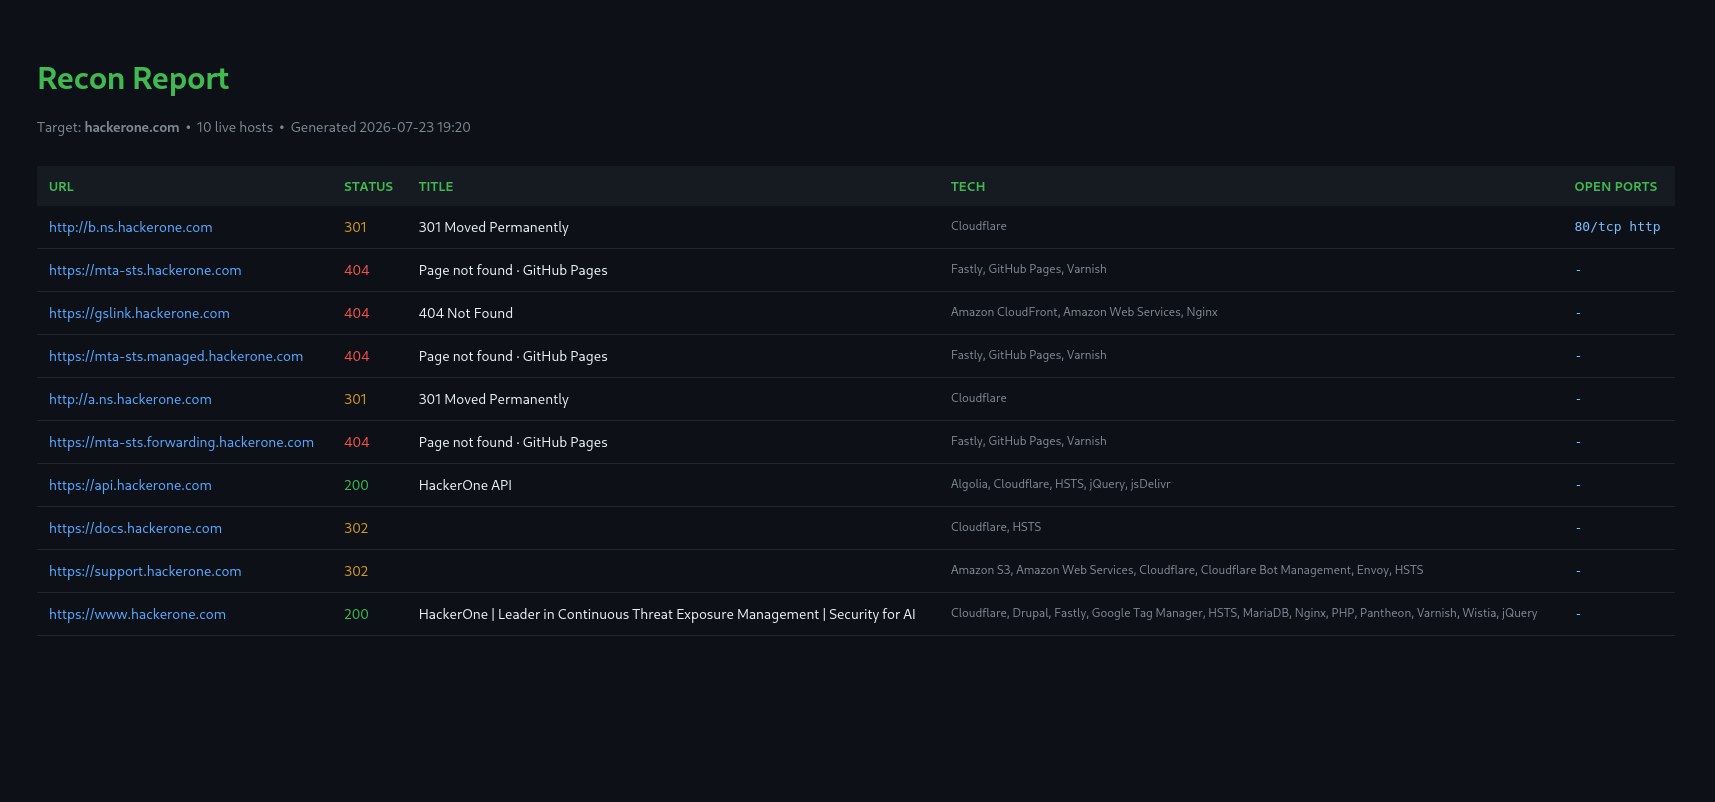
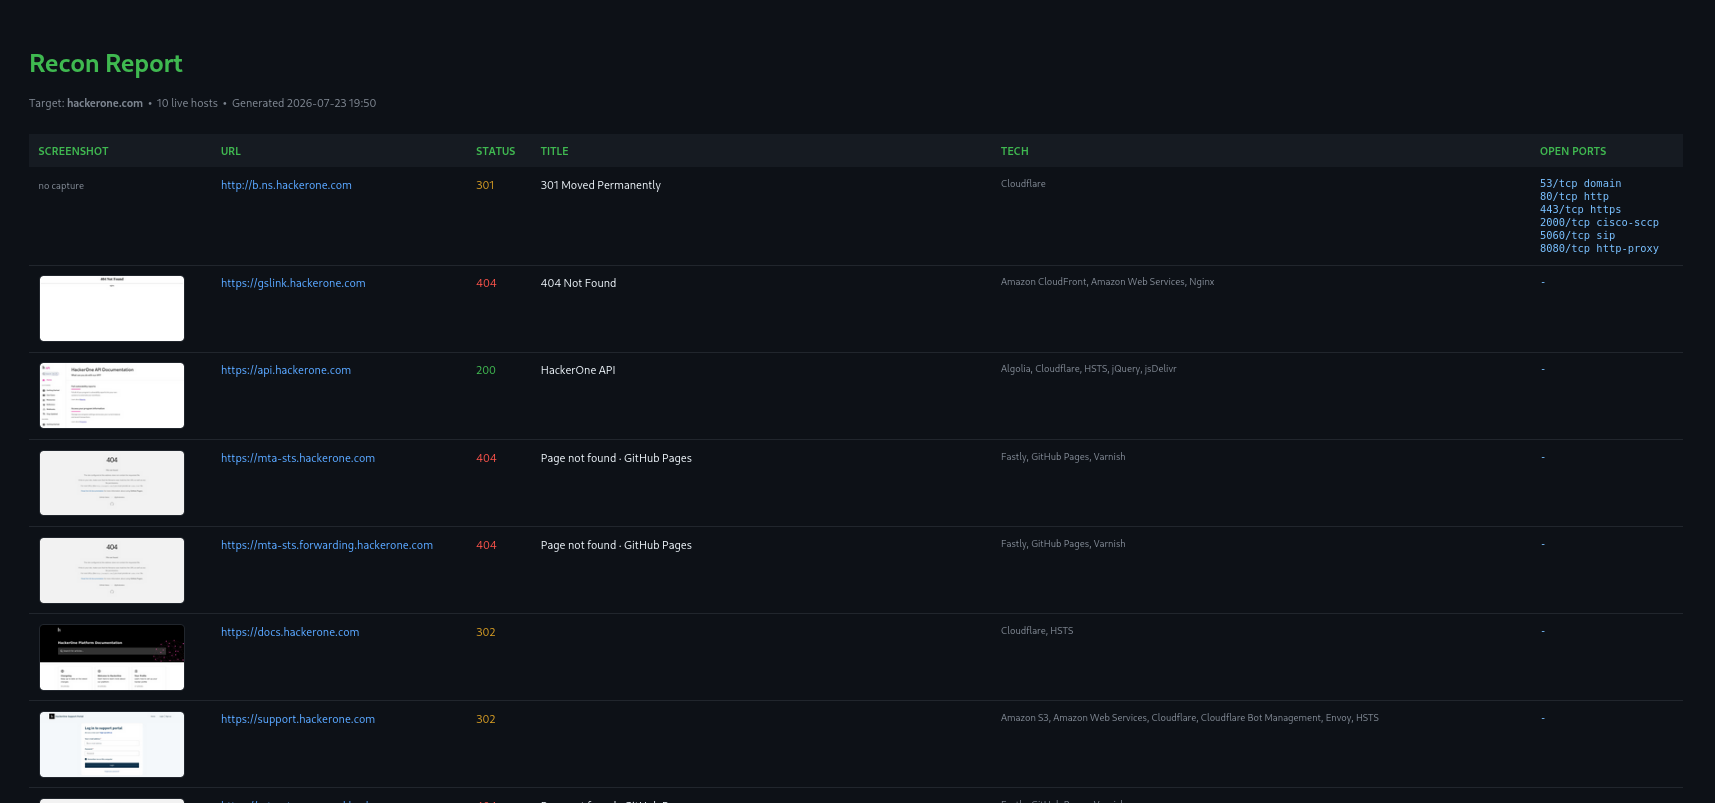
Implement web page screenshoting

diff --git a/reports/hackerone.com_20260723_195045.html b/reports/hackerone.com_20260723_195045.html
@@ -1,0 +1,172 @@
+<!DOCTYPE html>
+<html>
+<head>
+<meta charset="utf-8">
+<title>Recon Report: hackerone.com</title>
+<style>
+  body { font-family: 'Segoe UI', system-ui, sans-serif; background: #0d1117; color: #e6edf3; margin: 0; padding: 40px; }
+  h1 { color: #3fb950; font-weight: 600; }
+  .meta { color: #7d8590; margin-bottom: 30px; font-size: 14px; }
+  table { width: 100%; border-collapse: collapse; }
+  th { text-align: left; padding: 12px; background: #161b22; color: #3fb950; font-size: 13px; text-transform: uppercase; letter-spacing: 0.5px; }
+  td { padding: 12px; border-bottom: 1px solid #21262d; vertical-align: top; font-size: 14px; }
+  tr:hover { background: #161b22; }
+  .url { color: #58a6ff; font-weight: 500; }
+  .status-200 { color: #3fb950; }
+  .status-301, .status-302 { color: #d29922; }
+  .status-404, .status-403 { color: #f85149; }
+  .tech { color: #7d8590; font-size: 12px; }
+  .ports { font-family: monospace; color: #79c0ff; font-size: 13px; }
+  img { display: block; width: 180px; border: 1px solid #21262d; border-radius: 6px; }
+</style>
+</head>
+<body>
+  <h1>Recon Report</h1>
+  <div class="meta">
+    Target: <strong>hackerone.com</strong> &nbsp;&bull;&nbsp;
+    10 live hosts &nbsp;&bull;&nbsp;
+    Generated 2026-07-23 19:50
+  </div>
+  <table>
+    <tr>
+      <th>Screenshot</th>
+      <th>URL</th>
+      <th>Status</th>
+      <th>Title</th>
+      <th>Tech</th>
+      <th>Open Ports</th>
+    </tr>
+    
+    <tr>
+      <td>
+        
+          <span class="tech">no capture</span>
+        
+      </td>
+      <td class="url">http://b.ns.hackerone.com</td>
+      <td class="status-301">301</td>
+      <td>301 Moved Permanently</td>
+      <td class="tech">Cloudflare</td>
+      <td class="ports">53/tcp domain<br>80/tcp http<br>443/tcp https<br>2000/tcp cisco-sccp<br>5060/tcp sip<br>8080/tcp http-proxy</td>
+    </tr>
+    
+    <tr>
+      <td>
+        
+          <img src="../screenshots/https---gslink.hackerone.com.jpeg" alt="screenshot of https://gslink.hackerone.com">
+        
+      </td>
+      <td class="url">https://gslink.hackerone.com</td>
+      <td class="status-404">404</td>
+      <td>404 Not Found</td>
+      <td class="tech">Amazon CloudFront, Amazon Web Services, Nginx</td>
+      <td class="ports">-</td>
+    </tr>
+    
+    <tr>
+      <td>
+        
+          <img src="../screenshots/https---api.hackerone.com.jpeg" alt="screenshot of https://api.hackerone.com">
+        
+      </td>
+      <td class="url">https://api.hackerone.com</td>
+      <td class="status-200">200</td>
+      <td>HackerOne API</td>
+      <td class="tech">Algolia, Cloudflare, HSTS, jQuery, jsDelivr</td>
+      <td class="ports">-</td>
+    </tr>
+    
+    <tr>
+      <td>
+        
+          <img src="../screenshots/https---mta-sts.hackerone.com.jpeg" alt="screenshot of https://mta-sts.hackerone.com">
+        
+      </td>
+      <td class="url">https://mta-sts.hackerone.com</td>
+      <td class="status-404">404</td>
+      <td>Page not found · GitHub Pages</td>
+      <td class="tech">Fastly, GitHub Pages, Varnish</td>
+      <td class="ports">-</td>
+    </tr>
+    
+    <tr>
+      <td>
+        
+          <img src="../screenshots/https---mta-sts.forwarding.hackerone.com.jpeg" alt="screenshot of https://mta-sts.forwarding.hackerone.com">
+        
+      </td>
+      <td class="url">https://mta-sts.forwarding.hackerone.com</td>
+      <td class="status-404">404</td>
+      <td>Page not found · GitHub Pages</td>
+      <td class="tech">Fastly, GitHub Pages, Varnish</td>
+      <td class="ports">-</td>
+    </tr>
+    
+    <tr>
+      <td>
+        
+          <img src="../screenshots/https---docs.hackerone.com.jpeg" alt="screenshot of https://docs.hackerone.com">
+        
+      </td>
+      <td class="url">https://docs.hackerone.com</td>
+      <td class="status-302">302</td>
+      <td></td>
+      <td class="tech">Cloudflare, HSTS</td>
+      <td class="ports">-</td>
+    </tr>
+    
+    <tr>
+      <td>
+        
+          <img src="../screenshots/https---support.hackerone.com.jpeg" alt="screenshot of https://support.hackerone.com">
+        
+      </td>
+      <td class="url">https://support.hackerone.com</td>
+      <td class="status-302">302</td>
+      <td></td>
+      <td class="tech">Amazon S3, Amazon Web Services, Cloudflare, Cloudflare Bot Management, Envoy, HSTS</td>
+      <td class="ports">-</td>
+    </tr>
+    
+    <tr>
+      <td>
+        
+          <img src="../screenshots/https---mta-sts.managed.hackerone.com.jpeg" alt="screenshot of https://mta-sts.managed.hackerone.com">
+        
+      </td>
+      <td class="url">https://mta-sts.managed.hackerone.com</td>
+      <td class="status-404">404</td>
+      <td>Page not found · GitHub Pages</td>
+      <td class="tech">Fastly, GitHub Pages, Varnish</td>
+      <td class="ports">-</td>
+    </tr>
+    
+    <tr>
+      <td>
+        
+          <span class="tech">no capture</span>
+        
+      </td>
+      <td class="url">http://a.ns.hackerone.com</td>
+      <td class="status-301">301</td>
+      <td>301 Moved Permanently</td>
+      <td class="tech">Cloudflare</td>
+      <td class="ports">-</td>
+    </tr>
+    
+    <tr>
+      <td>
+        
+          <img src="../screenshots/https---www.hackerone.com.jpeg" alt="screenshot of https://www.hackerone.com">
+        
+      </td>
+      <td class="url">https://www.hackerone.com</td>
+      <td class="status-200">200</td>
+      <td>HackerOne | Leader in Continuous Threat Exposure Management | Security for AI</td>
+      <td class="tech">Cloudflare, Drupal, Fastly, Google Tag Manager, HSTS, MariaDB, Nginx, PHP, Pantheon, Varnish, Wistia, jQuery</td>
+      <td class="ports">-</td>
+    </tr>
+    
+  </table>
+</body>
+</html>

diff --git a/recon/report.py b/recon/report.py
@@ -21,19 +21,34 @@ TEMPLATE = """<!DOCTYPE html>
   .status-404, .status-403 { color: #f85149; }
   .tech { color: #7d8590; font-size: 12px; }
   .ports { font-family: monospace; color: #79c0ff; font-size: 13px; }
+  img { display: block; width: 180px; border: 1px solid #21262d; border-radius: 6px; }
 </style>
 </head>
 <body>
   <h1>Recon Report</h1>
   <div class="meta">
-    Target: <strong>{{ domain }}</strong> &nbsp;•&nbsp;
-    {{ hosts|length }} live hosts &nbsp;•&nbsp;
+    Target: <strong>{{ domain }}</strong> &nbsp;&bull;&nbsp;
+    {{ hosts|length }} live hosts &nbsp;&bull;&nbsp;
     Generated {{ timestamp }}
   </div>
   <table>
-    <tr><th>URL</th><th>Status</th><th>Title</th><th>Tech</th><th>Open Ports</th></tr>
+    <tr>
+      <th>Screenshot</th>
+      <th>URL</th>
+      <th>Status</th>
+      <th>Title</th>
+      <th>Tech</th>
+      <th>Open Ports</th>
+    </tr>
     {% for h in hosts %}
     <tr>
+      <td>
+        {% if h.screenshot %}
+          <img src="../{{ h.screenshot }}" alt="screenshot of {{ h.url }}">
+        {% else %}
+          <span class="tech">no capture</span>
+        {% endif %}
+      </td>
       <td class="url">{{ h.url }}</td>
       <td class="status-{{ h.status }}">{{ h.status }}</td>
       <td>{{ h.title }}</td>
@@ -45,6 +60,7 @@ TEMPLATE = """<!DOCTYPE html>
 </body>
 </html>"""
 
+
 def build_report(domain: str, hosts: list[dict]) -> str:
     html = Template(TEMPLATE).render(
         domain=domain,
@@ -53,6 +69,7 @@ def build_report(domain: str, hosts: list[dict]) -> str:
     )
     out_dir = Path("reports")
     out_dir.mkdir(exist_ok=True)
-    out_file = out_dir / f"{domain}_{datetime.now().strftime('%Y%m%d_%H%M%S')}.html"
+    safe_name = "".join(c if c.isalnum() or c in "-." else "_" for c in domain)
+    out_file = out_dir / f"{safe_name}_{datetime.now().strftime('%Y%m%d_%H%M%S')}.html"
     out_file.write_text(html)
     return str(out_file)

diff --git a/recon/screenshot.py b/recon/screenshot.py
@@ -1,0 +1,25 @@
+import subprocess
+from pathlib import Path
+
+def _slug(url: str) -> str:
+    """Reproduce gowitness's filename scheme: ://  and / become dashes."""
+    return url.replace("://", "---").replace("/", "-")
+
+def capture_screenshots(hosts: list[dict], outdir: str = "screenshots") -> list[dict]:
+    Path(outdir).mkdir(exist_ok=True)
+    for host in hosts:
+        url = host["url"]
+        try:
+            subprocess.run(
+                ["gowitness", "scan", "single",
+                 "--url", url,
+                 "--screenshot-path", outdir,
+                 "--write-none",          # silence the "no writers" warning
+                 "--timeout", "30"],
+                capture_output=True, text=True, timeout=90
+            )
+            expected = Path(outdir) / f"{_slug(url)}.jpeg"
+            host["screenshot"] = str(expected) if expected.exists() else None
+        except Exception:
+            host["screenshot"] = None
+    return hosts

diff --git a/main.py b/main.py
@@ -3,6 +3,7 @@ from recon.subdomains import find_subdomains
 from recon.probe import probe_hosts
 from recon.portscan import scan_ports
 from recon.report import build_report
+from recon.screenshot import capture_screenshots
 
 def scan(domain: str):
     print(f"[*] Enumerating subdomains for {domain}...")
@@ -15,6 +16,10 @@ def scan(domain: str):
     
     print("[*] Port scanning live hosts...")
     live = scan_ports(live)
+    
+    print("[*] Capturing screenshots...")
+    live = capture_screenshots(live)
+    print("[+] Screenshots done\n")
     
     report_path = build_report(domain, live)
     print(f"\n[+] Report written to {report_path}")

diff --git a/README.md b/README.md
@@ -33,8 +33,8 @@ Subdomain enumeration and host probing are passive. **Port scanning is active an
 
 ## Install
 
-    git clone https://github.com/yourname/recon-tool.git
-    cd recon-tool
+    git clone https://github.com/HussainAlAbdulkareem/Recon-Automation-Tool.git
+    cd Recon-Automation-Tool
     python3 -m venv venv && source venv/bin/activate
     pip install -r requirements.txt
 
